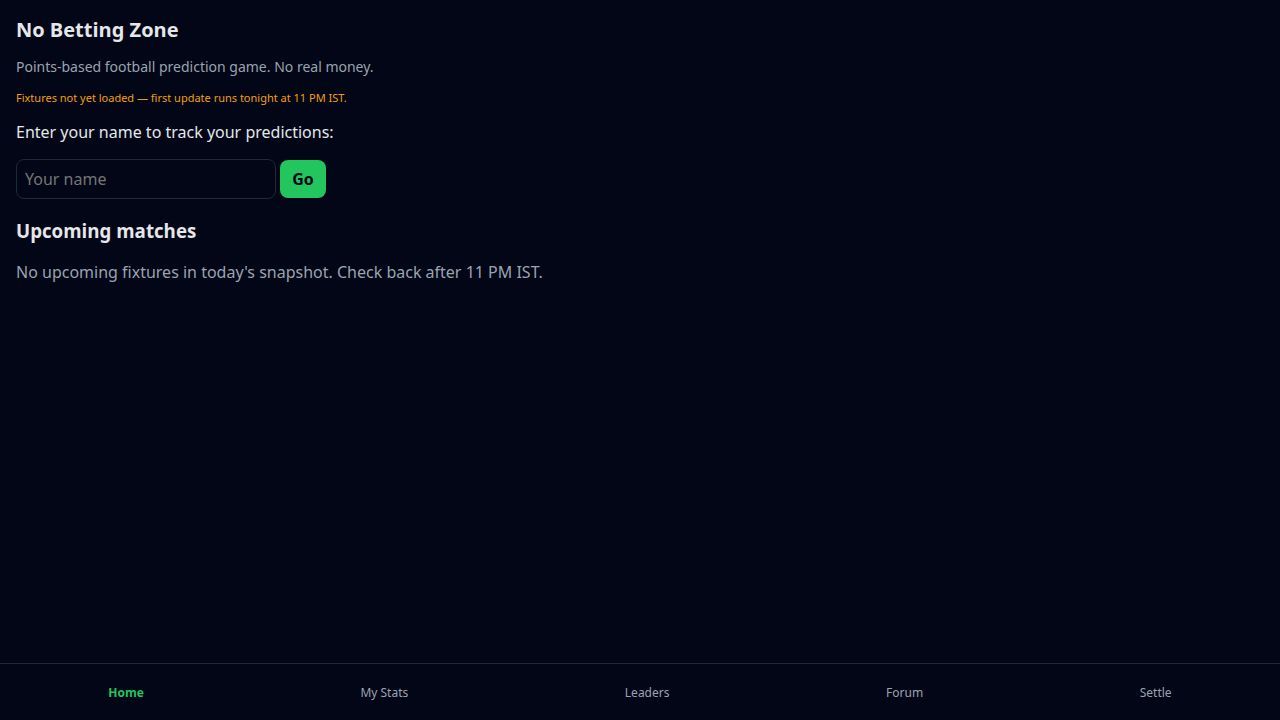
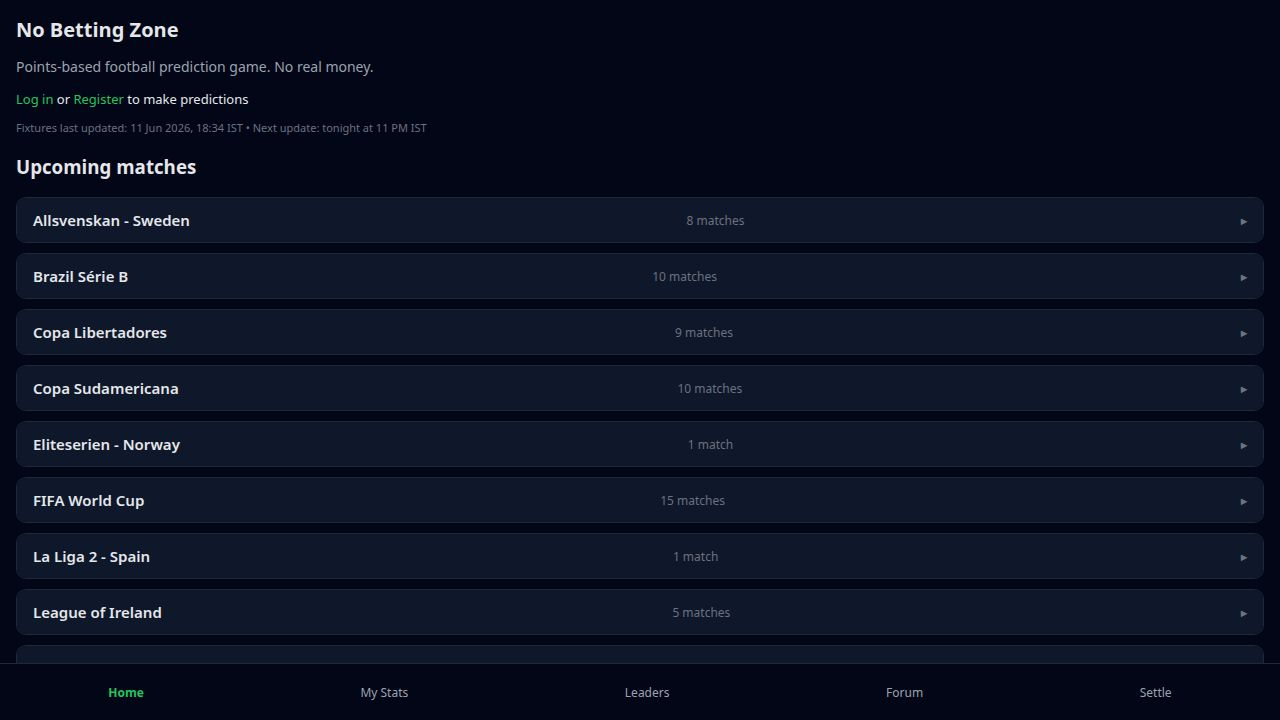
Organize main page to show tournaments, then matches, then betting options
Refactor the home page route to implement a nested accordion structure using HTML `<details>` and `<summary>` elements, allowing users to progressively reveal tournament names, then match details, and finally betting options inline.

Replit-Commit-Author: Agent
Replit-Commit-Session-Id: 93179fe9-a266-4a7d-97fe-0d0eda81b8e0
Replit-Commit-Checkpoint-Type: full_checkpoint
Replit-Commit-Event-Id: b7bd2ea1-85a6-4000-bbc0-25d533b9c501
Replit-Commit-Screenshot-Url: https://storage.googleapis.com/screenshot-production-us-central1/6f6d87b4-7a8a-4016-9efc-762b3f0f8ae4/93179fe9-a266-4a7d-97fe-0d0eda81b8e0/3Uubg9V
Replit-Helium-Checkpoint-Created: true

diff --git a/index.js b/index.js
@@ -524,32 +524,83 @@ app.get('/', async (req, res) => {
     if (!leagueNames.length) {
       html += `<p style="color:#9ca3af;">No upcoming fixtures in today's snapshot. Check back after 11 PM IST.</p>`;
     } else {
+      html += `<style>
+        details.tournament { border:1px solid #1f2937; border-radius:10px; margin-bottom:10px; overflow:hidden; }
+        details.tournament > summary {
+          cursor:pointer; padding:12px 16px; font-size:15px; font-weight:600;
+          background:#0f172a; list-style:none; display:flex; justify-content:space-between; align-items:center;
+          user-select:none;
+        }
+        details.tournament > summary::-webkit-details-marker { display:none; }
+        details.tournament > summary::after { content:'▸'; font-size:12px; color:#6b7280; transition:transform .2s; }
+        details.tournament[open] > summary::after { content:'▾'; }
+        details.tournament > summary:hover { background:#1e293b; }
+
+        details.match-item { border-top:1px solid #1f2937; }
+        details.match-item > summary {
+          cursor:pointer; padding:10px 16px; list-style:none; display:flex;
+          justify-content:space-between; align-items:center; gap:8px;
+          background:#020617; user-select:none;
+        }
+        details.match-item > summary::-webkit-details-marker { display:none; }
+        details.match-item > summary:hover { background:#0f172a; }
+        details.match-item > summary .match-name { font-size:14px; }
+        details.match-item > summary .match-meta { font-size:11px; color:#6b7280; white-space:nowrap; }
+
+        .bet-panel { padding:12px 16px; background:#0a0f1e; border-top:1px solid #1f2937; }
+        .odds-row { display:flex; gap:8px; margin:8px 0; flex-wrap:wrap; }
+        .odds-btn {
+          flex:1; min-width:80px; padding:8px 6px; border-radius:8px; border:1px solid #374151;
+          background:#1f2937; color:#e5e7eb; font-size:13px; text-align:center;
+        }
+        .odds-btn .label { font-size:11px; color:#9ca3af; }
+        .odds-btn .value { font-weight:700; font-size:15px; margin-top:2px; }
+      </style>`;
+
       for (const leagueName of leagueNames) {
-        html += `<h4 style="margin-top:12px;font-size:14px;">${leagueName}</h4>`;
-        const list = byLeague[leagueName].slice(0, 10);
+        const list = byLeague[leagueName].slice(0, 15);
+        html += `<details class="tournament">
+          <summary>${leagueName} <span style="font-size:12px;font-weight:400;color:#6b7280;">${list.length} match${list.length !== 1 ? 'es' : ''}</span></summary>`;
+
         for (const ev of list) {
           const kickoff = new Date(ev.commence_time);
           const minsLeft = Math.round((kickoff - now) / 60000);
           const bettingOpen = kickoff - now > cutoff;
           const dateStr = moment(ev.commence_time).tz(TIMEZONE).format('DD MMM, HH:mm');
-          const badge = bettingOpen
-            ? (minsLeft < 60 ? `<span style="font-size:11px;color:#f59e0b;">Closes in ${minsLeft} min</span>` : '')
-            : `<span style="font-size:11px;color:#6b7280;">Betting closed</span>`;
-          html += `
-            <div class="card">
-              <div style="display:flex;justify-content:space-between;align-items:flex-start;">
-                <div style="font-size:14px;">${ev.home_team} vs ${ev.away_team}</div>
-                <div style="font-size:12px;color:#9ca3af;white-space:nowrap;margin-left:8px;">${dateStr}</div>
-              </div>
-              <div style="margin-top:4px;display:flex;align-items:center;gap:10px;">
-                ${bettingOpen
-                  ? `<a href="/match?id=${ev.id}" style="font-size:13px;">View & predict →</a>`
-                  : `<span style="font-size:13px;color:#6b7280;">View</span>`}
-                ${badge}
-              </div>
+          const badge = !bettingOpen
+            ? `<span style="font-size:11px;color:#6b7280;border:1px solid #374151;border-radius:4px;padding:1px 5px;">Closed</span>`
+            : minsLeft < 60
+              ? `<span style="font-size:11px;color:#f59e0b;border:1px solid #f59e0b;border-radius:4px;padding:1px 5px;">Closes ${minsLeft}m</span>`
+              : '';
+
+          // Extract 1X2 odds if available
+          const h2h = (ev.bookmakers?.[0]?.markets || []).find(m => m.key === 'h2h');
+          let oddsHtml = '';
+          if (h2h && h2h.outcomes) {
+            const home = h2h.outcomes.find(o => o.name === ev.home_team);
+            const away = h2h.outcomes.find(o => o.name === ev.away_team);
+            const draw = h2h.outcomes.find(o => o.name === 'Draw');
+            oddsHtml = `<div class="odds-row">
+              <div class="odds-btn"><div class="label">Home</div><div class="value">${home ? home.price : '—'}</div></div>
+              ${draw ? `<div class="odds-btn"><div class="label">Draw</div><div class="value">${draw.price}</div></div>` : ''}
+              <div class="odds-btn"><div class="label">Away</div><div class="value">${away ? away.price : '—'}</div></div>
+            </div>`;
+          }
+
+          html += `<details class="match-item">
+            <summary>
+              <span class="match-name">${ev.home_team} vs ${ev.away_team}</span>
+              <span style="display:flex;align-items:center;gap:6px;">${badge}<span class="match-meta">${dateStr}</span></span>
+            </summary>
+            <div class="bet-panel">
+              ${oddsHtml || '<p style="font-size:12px;color:#6b7280;margin:0 0 8px;">Odds not yet available.</p>'}
+              ${bettingOpen
+                ? `<a href="/match?id=${ev.id}" style="display:inline-block;margin-top:6px;font-size:13px;padding:7px 14px;background:#7c3aed;color:#fff;border-radius:8px;text-decoration:none;">Make prediction →</a>`
+                : `<p style="font-size:12px;color:#6b7280;margin:6px 0 0;">Betting closed for this match.</p>`}
             </div>
-          `;
+          </details>`;
         }
+        html += `</details>`;
       }
     }
 